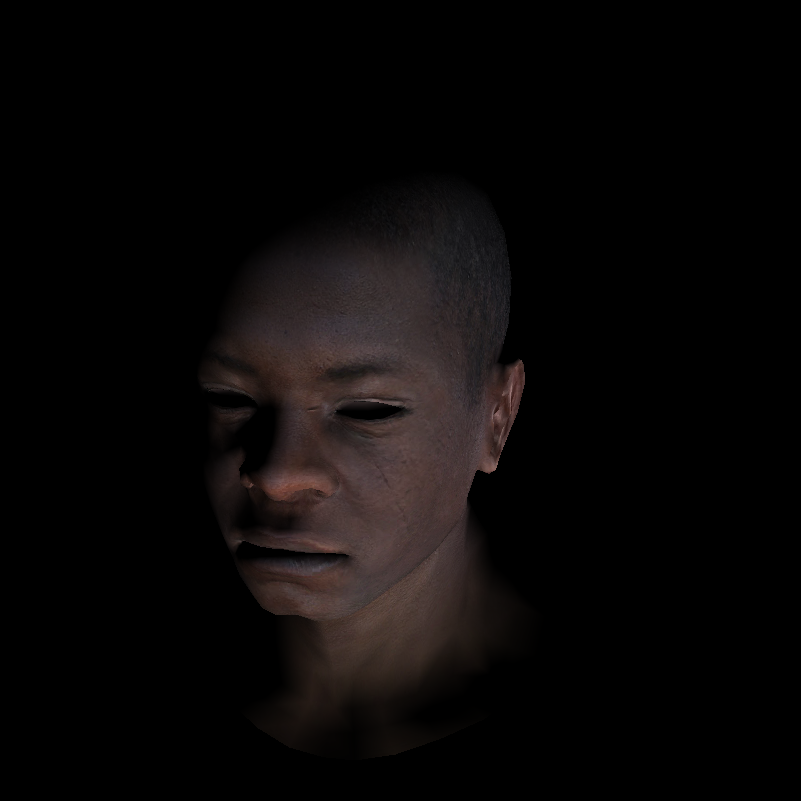
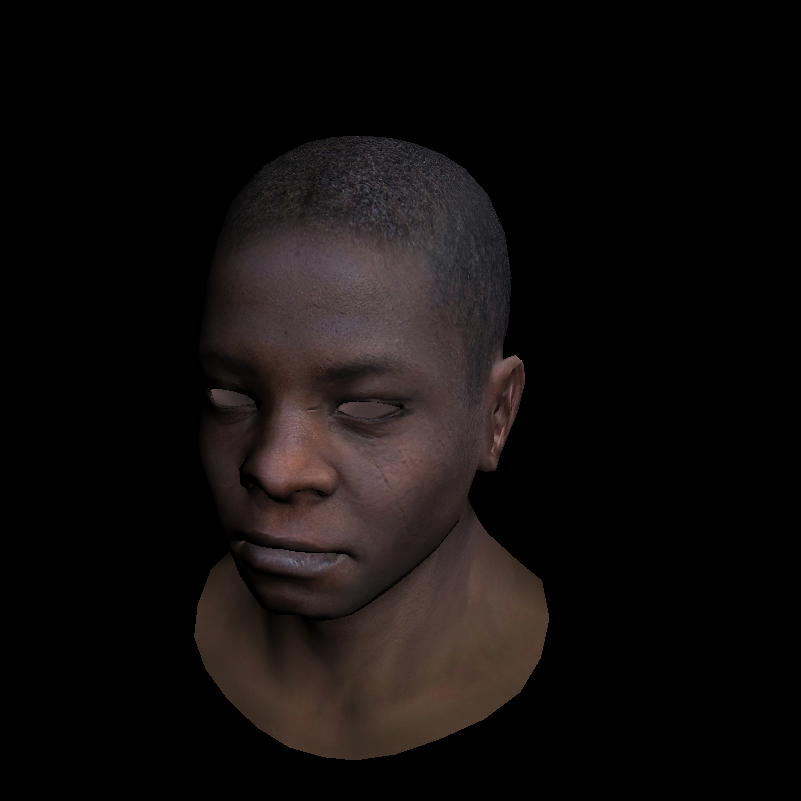
A little cleanup will do more tomorrow

Changed region(s): [[0.2185, 0.4682, 0.6866, 0.9675], [0.2497, 0.1561, 0.6242, 0.437], [0.593, 0.437, 0.6554, 0.593]]

diff --git a/src/main.rs b/src/main.rs
@@ -5,7 +5,7 @@ use std::path::Path;
 use std::f32;
 use image::ImageBuffer;
 use model::Model;
-use geometry::{Vertex2, Vertex3, Matrix};
+use geometry::{Vertex2, Vertex3};
 
 pub mod model;
 pub mod geometry;
@@ -20,15 +20,14 @@ fn main() {
     // +1 hack to get over the out of bounds errors
     let mut imgbuf = ImageBuffer::new(WIDTH + 1, HEIGHT + 1);
     let model = Model::new("african_head");
-    let mut light_dir = Vertex3::<f32> { x: 1.0, y: -1.0, z: 1.0, };
-    light_dir = light_dir.normalize();
-    let eye = Vertex3::<f32> { x: 1.0, y: 1.0, z: 3.0, };
+    let light_dir = Vertex3::init(1.0, 1.0, 1.0).normalize();
+    let up = Vertex3::init(0.0, 1.0, 0.0);
+    let eye = Vertex3::init(1.0, 1.0, 3.0);
     let center = Vertex3::new();
 
-    let mut projection = Matrix::identity(4);
+    let projection = renderer::projection(eye, center);
     let viewport = renderer::viewport(WIDTH / 8, HEIGHT / 8, WIDTH * 3/4, HEIGHT * 3/4, DEPTH);
-    let model_view = renderer::lookat(eye, center, Vertex3::<f32> { x: 0.0, y: 1.0, z: 0.0 });
-    projection.set(3, 2, -1.0 / ((eye - center).norm()));
+    let model_view = renderer::lookat(eye, center, up);
 
     let mut zbuffer: [f32; ZBUFFER_SIZE] = [f32::NEG_INFINITY; ZBUFFER_SIZE];
 

diff --git a/src/renderer.rs b/src/renderer.rs
@@ -18,6 +18,12 @@ pub fn lookat(eye: Vertex3<f32>, center: Vertex3<f32>, up: Vertex3<f32>) -> Matr
     result
 }
 
+pub fn projection(eye: Vertex3<f32>, center: Vertex3<f32>) -> Matrix {
+  let mut result = Matrix::identity(4);   
+  result.set(3, 2, -1.0 / ((eye - center).norm()));
+  result
+}
+
 pub fn viewport(x: u32, y: u32, h: u32, w: u32, depth: u32) -> Matrix {
     let mut m = Matrix::identity(4);
     m.set(0,3, (x + w) as f32 / 2.0);

diff --git a/src/geometry.rs b/src/geometry.rs
@@ -138,6 +138,10 @@ impl Vertex3<f32> {
         Vertex3 { x: 0.0, y: 0.0, z: 0.0 }
     }
 
+    pub fn init(x: f32, y: f32, z: f32) -> Vertex3<f32> {
+        Vertex3 { x: x, y: y, z: z }
+    }
+
     pub fn to_screen(&self, height: u32, width: u32) -> Vertex3<f32> {
         Vertex3::<f32> {
             x: ((self.x + 1.0) * width as f32 / 2.0) + 0.5,
